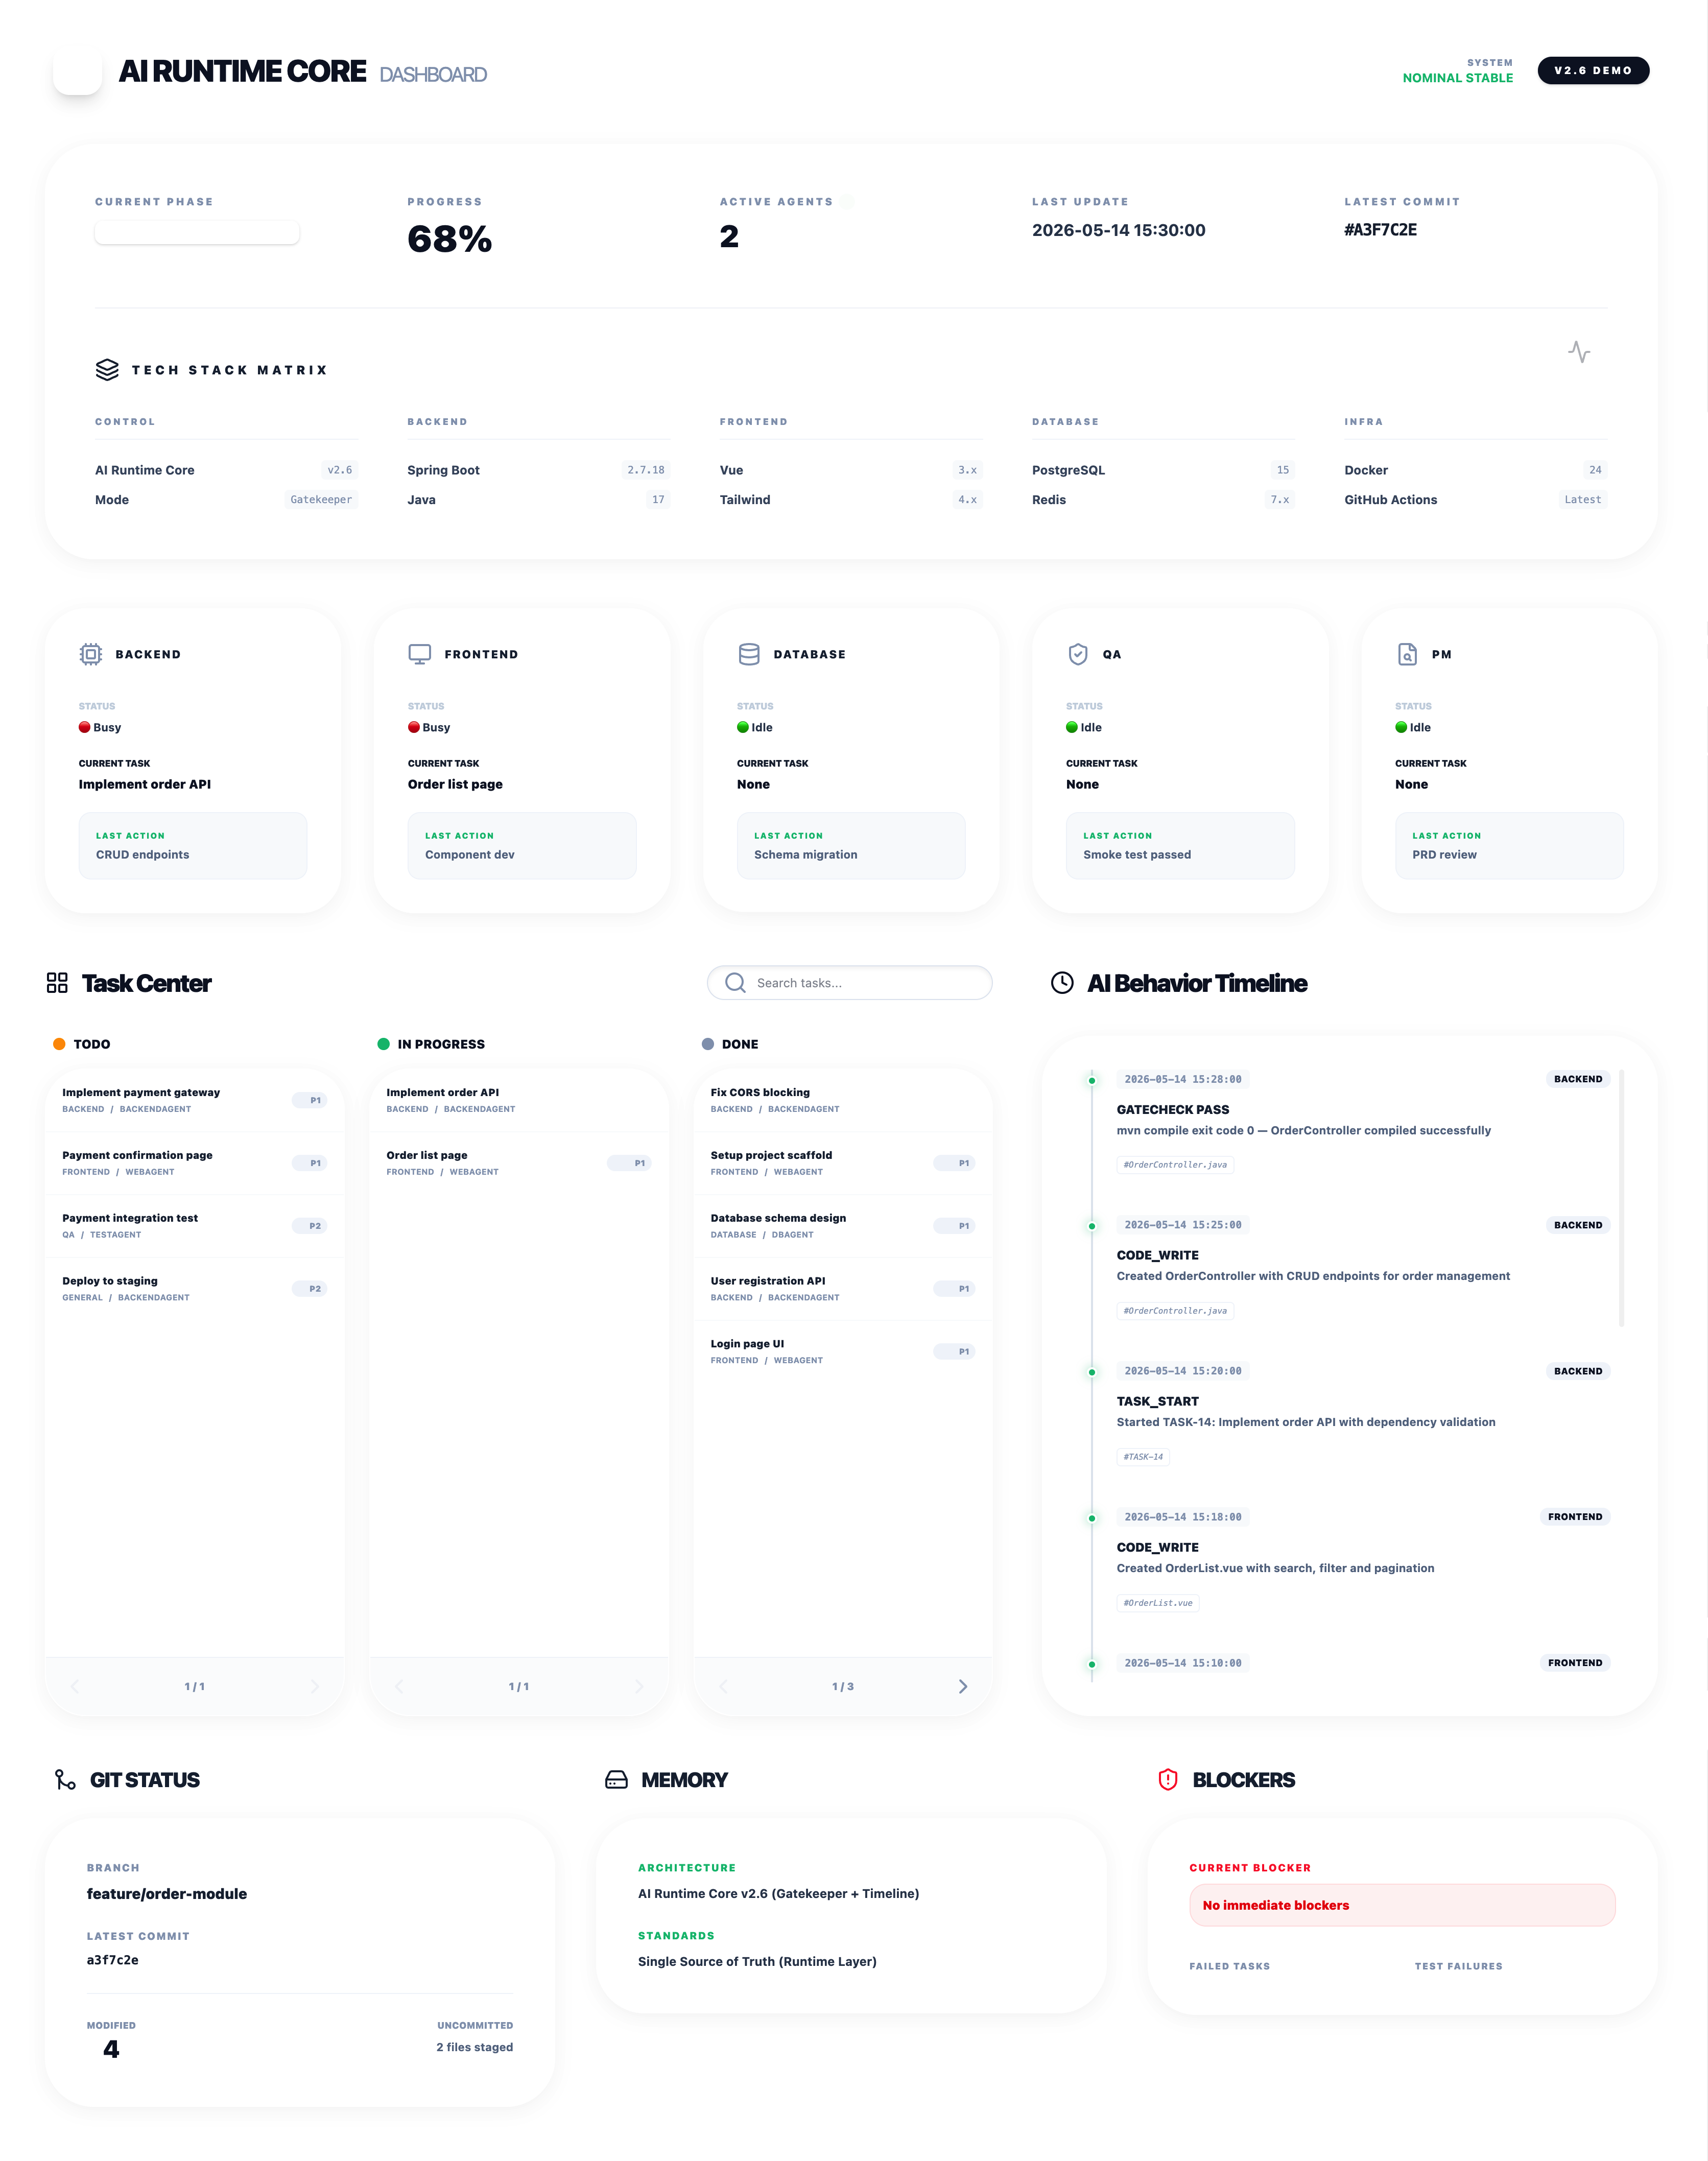
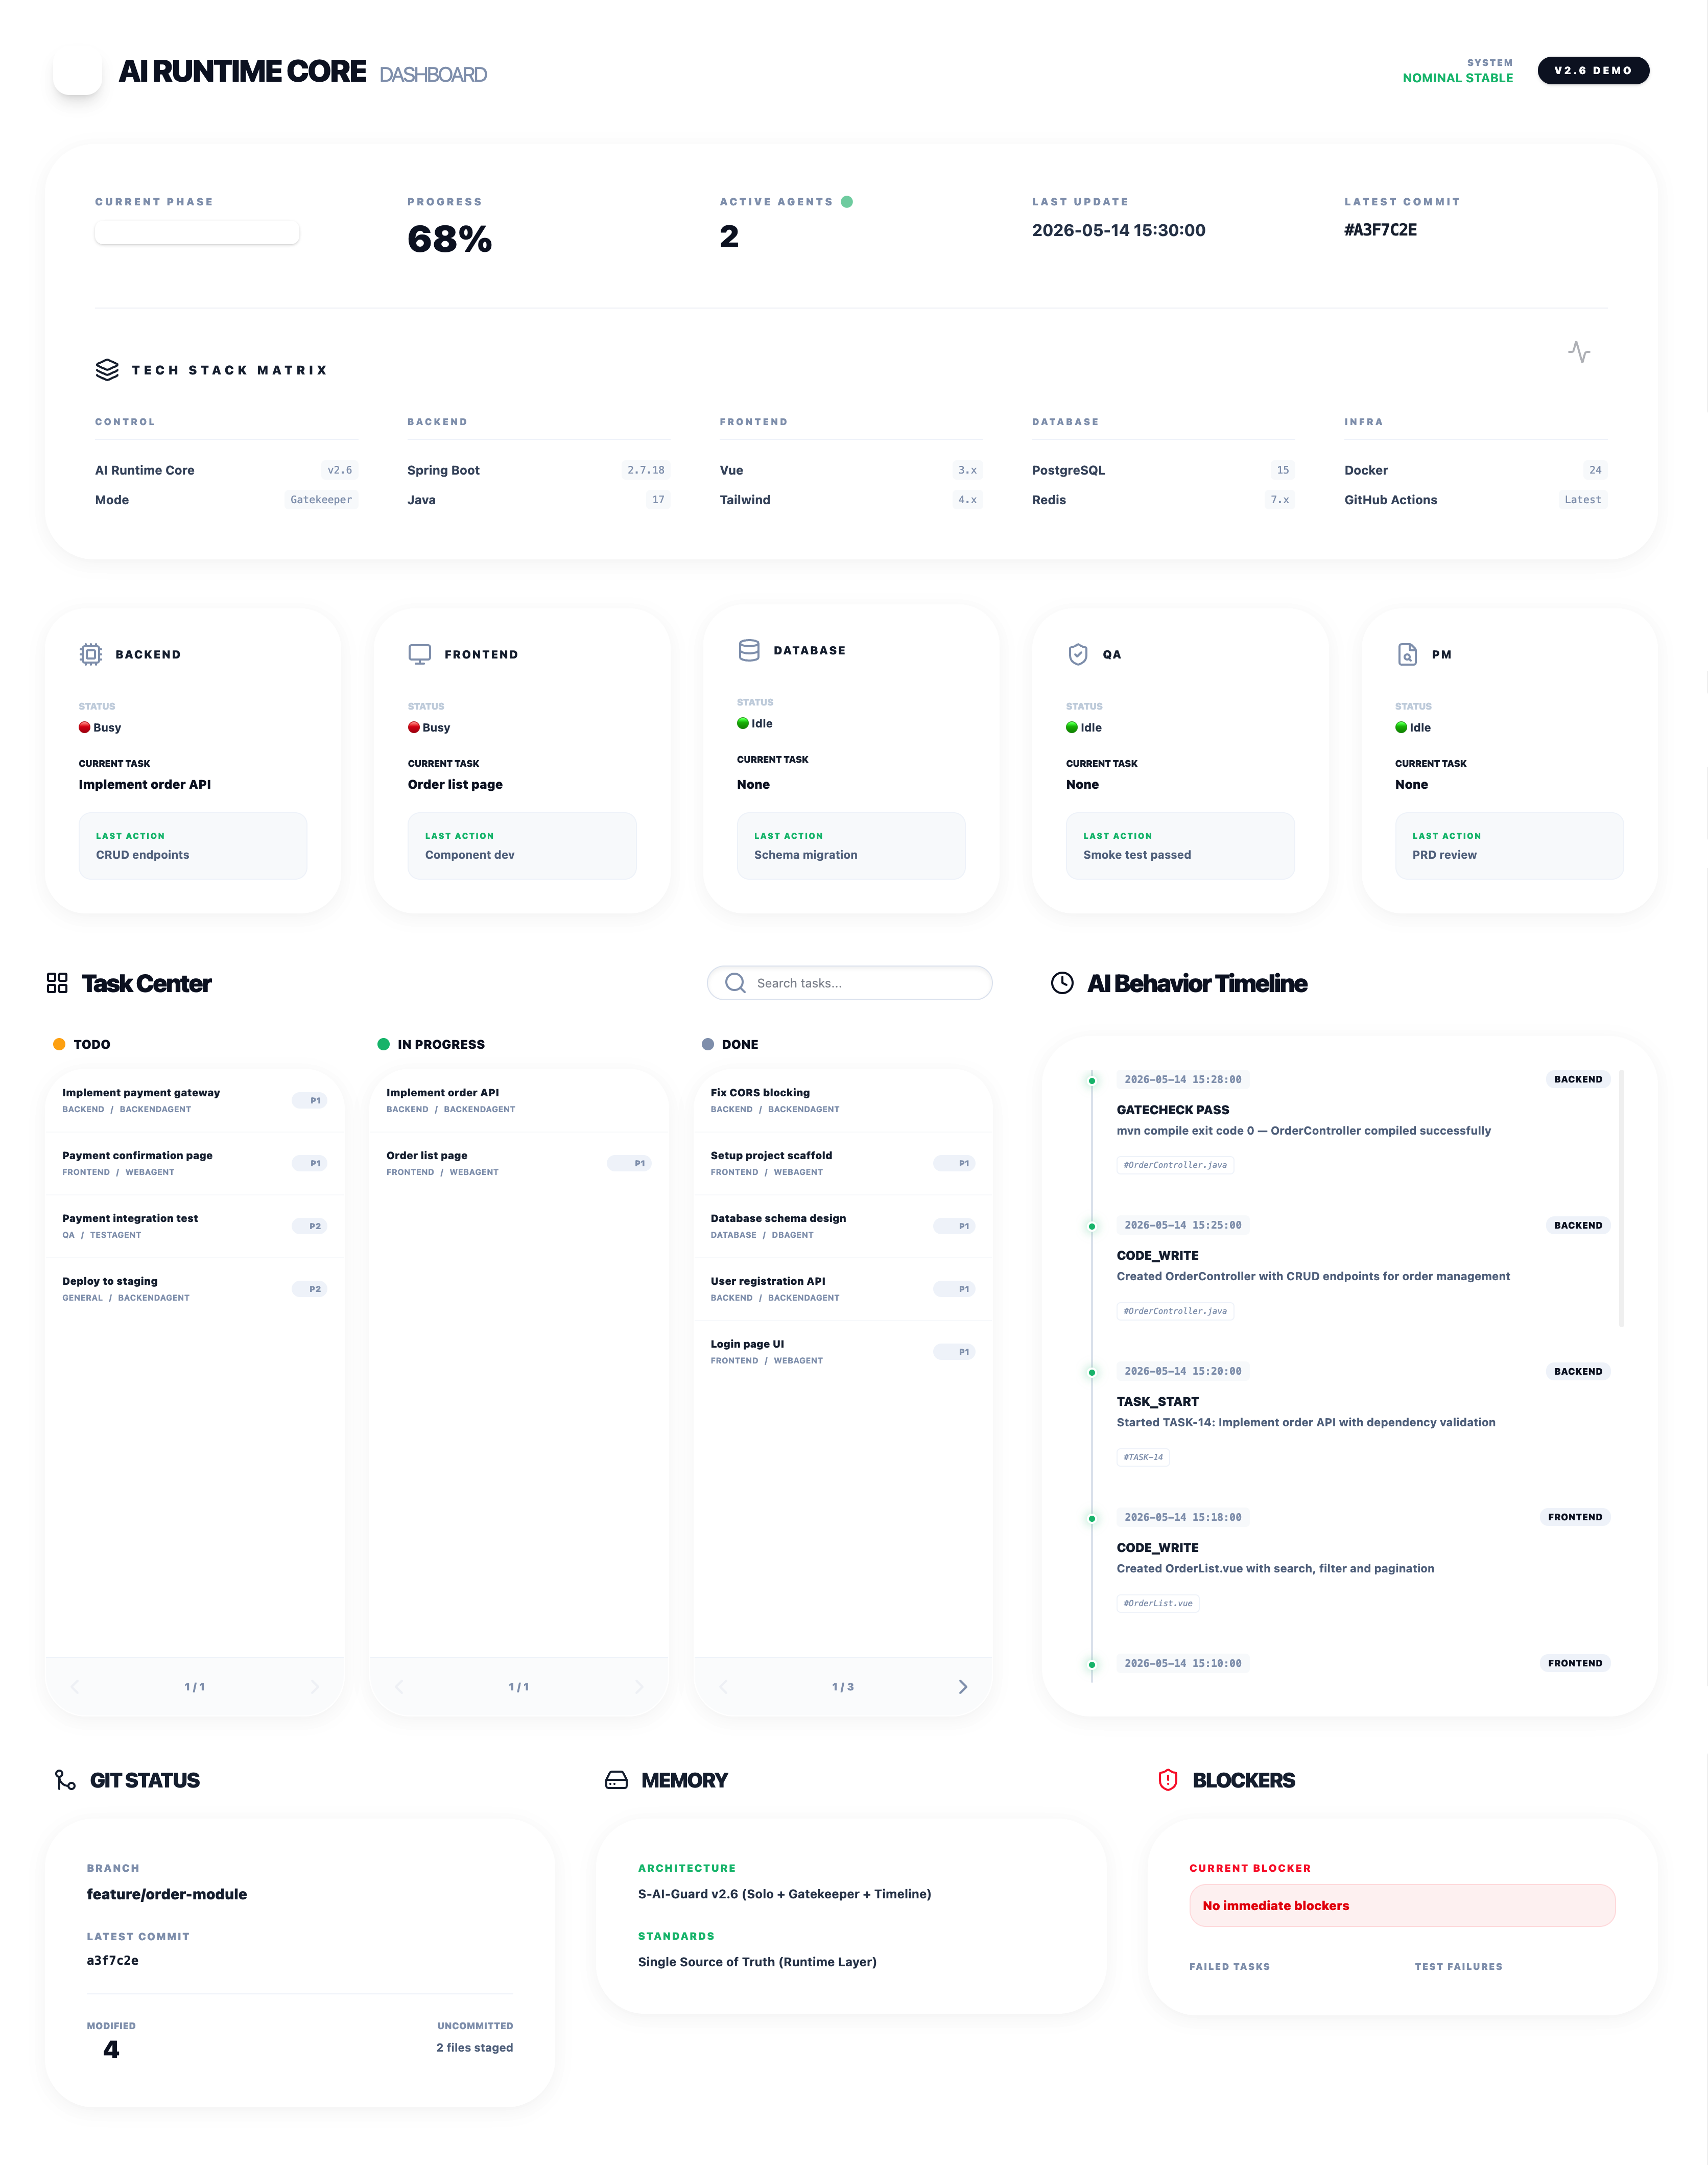
ci: add GitHub Actions workflow with CI badge
- CI runs sai init + status + check on Node 18/20
- Verify all state files are created correctly
- Add CI badge to README (English + Chinese sections)

diff --git a/README.md b/README.md
@@ -2,6 +2,7 @@
 
 **S**olo **AI** **Guard** — A mechanical gatekeeper for single-agent development workflows.
 
+[![CI](https://github.com/MrHeliu/saiguard/actions/workflows/ci.yml/badge.svg)](https://github.com/MrHeliu/saiguard/actions/workflows/ci.yml)
 [![License: MIT](https://img.shields.io/badge/License-MIT-yellow.svg)](https://opensource.org/licenses/MIT)
 [![Node.js >= 14](https://img.shields.io/badge/node-%3E%3D14-brightgreen.svg)](https://nodejs.org/)
 [![PRs Welcome](https://img.shields.io/badge/PRs-welcome-brightgreen.svg)](CONTRIBUTING.md)
@@ -183,6 +184,7 @@ See [CONTRIBUTING.md](CONTRIBUTING.md) for guidelines. Bug reports, feature requ
 
 **S**olo **AI** **Guard** — 单 AI 开发工作流的机械门禁引擎。
 
+[![CI](https://github.com/MrHeliu/saiguard/actions/workflows/ci.yml/badge.svg)](https://github.com/MrHeliu/saiguard/actions/workflows/ci.yml)
 [![License: MIT](https://img.shields.io/badge/License-MIT-yellow.svg)](https://opensource.org/licenses/MIT)
 [![Node.js >= 14](https://img.shields.io/badge/node-%3E%3D14-brightgreen.svg)](https://nodejs.org/)
 [![PRs Welcome](https://img.shields.io/badge/PRs-welcome-brightgreen.svg)](CONTRIBUTING.md)